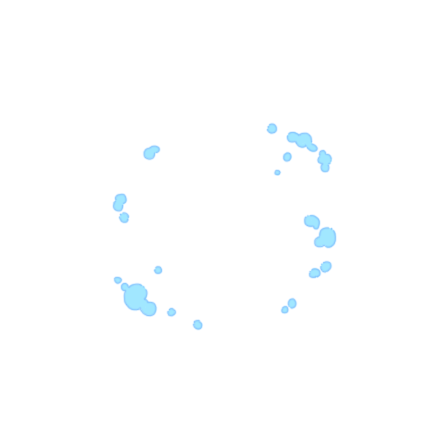
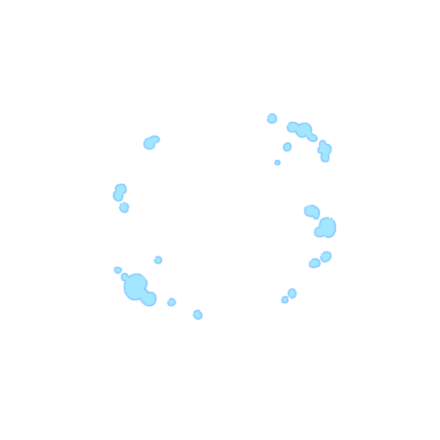
Обновлены изображения взрыва и файлы сцен в соответсвии с новым форматом адрессации

diff --git a/index.js b/index.js
@@ -1,0 +1,11 @@
+const funct = (start, end, time) => {
+    let curr = start;
+    const animation = () => {
+        if (curr > end) {
+            return
+        }
+        //код, который линейно изменяет curr в зависимости от времени
+        requestAnimationFrame(animation);
+    }
+    animation();
+};
